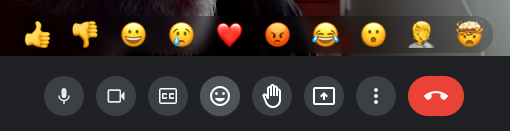
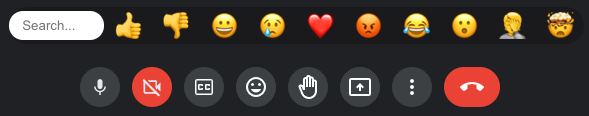
hotkeys for search results

diff --git a/chrome_ext/meet.js b/chrome_ext/meet.js
@@ -5,6 +5,8 @@ let ws_server_base = "wss://rejoinder.kered.org:15842/ws/";
 
 let DISPLAY_MS = 4000;
 
+var displayed_emojis = DEFAULT_EMOJIS;
+
 function find_user() {
   var imgs = [...document.getElementsByTagName('img')].filter(e => e.src.startsWith('https://lh3.googleusercontent.com/'));
   if (imgs.length) {
@@ -79,21 +81,23 @@ function display(meeting_id, data) {
 
 var ws = null;
 
+function on_keypress(event) {
+  if (document.activeElement.tagName==='TEXTAREA') return;
+//  if (document.activeElement.tagName==='TEXTAREA' || document.activeElement.tagName==='INPUT') return;
+  event.stopPropagation()
+  var n = parseInt(event.key);
+  if (!isNaN(n)) {
+    var msg = {'m':displayed_emojis[n%displayed_emojis.length]};
+    ws.send(JSON.stringify(msg))
+  }
+}
+
 function connect(user) {
 
   var meeting_id = window.location.href.substring(window.location.href.lastIndexOf('/')+1);
   console.log('connecting', user.name, 'to', meeting_id);
   let ws_server = ws_server_base+meeting_id;
   ws = new WebSocket(ws_server);
-
-  function on_keypress(event) {
-    if (document.activeElement.tagName==='TEXTAREA' || document.activeElement.tagName==='INPUT') return;
-    var n = parseInt(event.key);
-    if (!isNaN(n)) {
-      var msg = {'m':DEFAULT_EMOJIS[n]};
-      ws.send(JSON.stringify(msg))
-    }
-  }
 
   ws.onmessage = function (event) {
     display(meeting_id, JSON.parse(event.data))
@@ -178,6 +182,7 @@ function init_ui() {
 
   // search bar
   var search = document.createElement('input')
+  search.id = 'rejoinder_search_bar';
   search.style['height'] = '20pt'
   search.style['vertical-align'] = 'top'
   search.style['border-radius'] = '20pt'
@@ -189,43 +194,46 @@ function init_ui() {
   emoji_menu.prepend(search);
   
   function update_emojis(e) {
-    emoji_icons.innerHTML = '';
 
     if (e && e.target && e.target.value && e.target.value.length) {
+
+      // numbers are hotkeys, so don't update search
+      if (!isNaN(parseInt(e.data))) return;
+
       let search_string = e.target.value;
       var matches = REJOINDER_ALL_EMOJIS.filter(emoji => {
         var s = emoji.description +','+ emoji.aliases.join() +','+ emoji.tags.join();
         return s.indexOf(search_string)>-1;
       }).slice(0,10)
-      matches.map(emoji => {
-        console.log('matching', emoji)
-        var b = document.createElement('span');
-        b.innerText = emoji.emoji;
-        b.style.cursor = 'pointer';
-        b.style.margin = '.4em';
-        b.style.fontSize = '20pt';
-        b.onclick = () => send(emoji.emoji);
-        emoji_icons.appendChild(b);
-      });
+      displayed_emojis = matches.map(emoji => emoji.emoji);
     } else {
-      DEFAULT_EMOJIS.map((s, i) => {
-        var b = document.createElement('span');
-        b.innerText = s;
-        b.style.cursor = 'pointer';
-        b.style.margin = '.4em';
-        b.style.fontSize = '20pt';
-        b.title = "Hotkey: "+i;
-        b.onclick = () => send(s);
-        emoji_icons.appendChild(b);
-      });
-      emoji_icons.appendChild(emoji_icons.children[0]); // move "0" to the end of the list (to match keyboard)
+      displayed_emojis = DEFAULT_EMOJIS;
     }
+    emoji_icons.innerHTML = '';
+    displayed_emojis.map((s, i) => {
+      var b = document.createElement('span');
+      b.innerText = s;
+      b.style.cursor = 'pointer';
+      b.style.margin = '.4em';
+      b.style.fontSize = '20pt';
+      b.title = "Hotkey: "+i;
+      b.onclick = () => send(s);
+      emoji_icons.appendChild(b);
+    });
+
+    // move "0" to the end of the list (to match keyboard)
+    if (emoji_icons.children.length) emoji_icons.appendChild(emoji_icons.children[0]);
 
   }
 
   update_emojis();
 
   search.oninput = update_emojis
+  search.onkeydown = event => {
+    let hotkey = !isNaN(parseInt(event.key));
+    if (hotkey) on_keypress(event);
+    return !hotkey;
+  }
 
   function toggle() {
     emoji_menu.style.display = emoji_menu.style.display=='none' ? 'block' : 'none';
